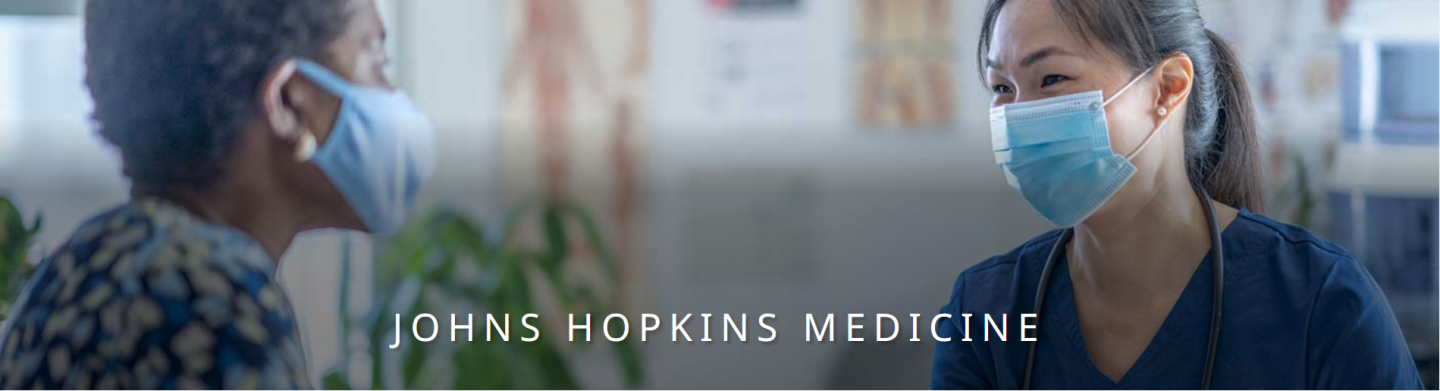
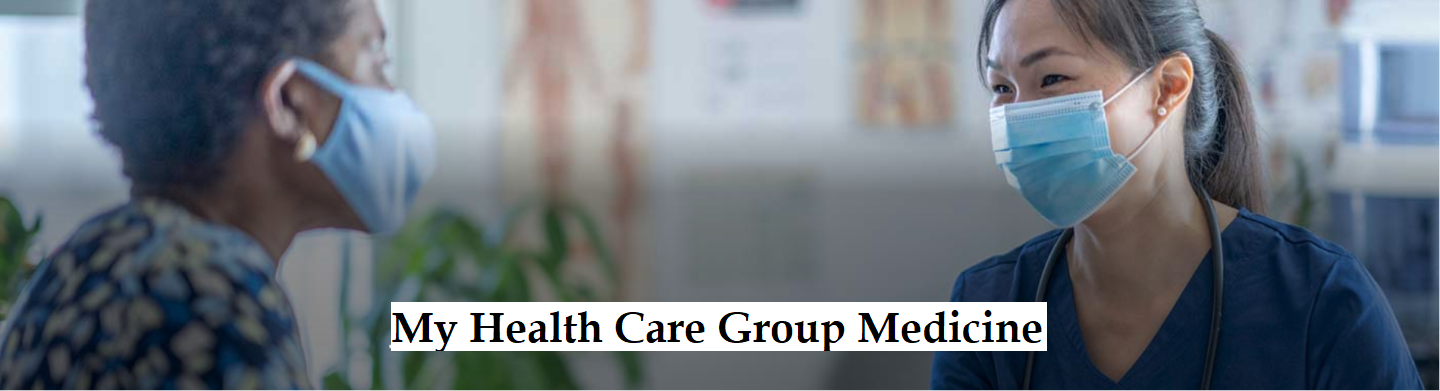
landing page name updated

Changed region(s): [[0.25, 0.7673, 0.75, 0.9207]]

diff --git a/src/components/Features.js b/src/components/Features.js
@@ -7,7 +7,7 @@ function Features() {
             <Grid container spacing={2}>
                 <Grid item xs={3}>
                     <CardActionArea>
-                        <Card sx={{height: 300, p: 2 , textAlign: 'center'}}>
+                        <Card sx={{height: 244, p: 2 , textAlign: 'center'}}>
                         <CardMedia
                             component='img'
                             image='https://www.hopkinsmedicine.org/_images/_svg/stethoscope-blue.svg'
@@ -23,7 +23,7 @@ function Features() {
 
                 <Grid item xs={3}>
                     <CardActionArea>
-                        <Card sx={{ height: 300, p: 2 }}>
+                        <Card sx={{ height: 244, p: 2 }}>
                         <CardMedia
                             component='img'
                             image='https://www.hopkinsmedicine.org/_images/_svg/location-blue.svg'
@@ -38,7 +38,7 @@ function Features() {
                 </Grid>
                 <Grid item xs={3}>
                     <CardActionArea>
-                        <Card sx={{ height: 300, p: 2 }}>
+                        <Card sx={{ height: 244, p: 2 }}>
                         <CardMedia
                             component='img'
                             image='https://www.hopkinsmedicine.org/_images/_svg/appointment-blue.svg'
@@ -53,7 +53,7 @@ function Features() {
                 </Grid>
                 <Grid item xs={3}   >
                     <CardActionArea>
-                        <Card sx={{ height: 300, p: 2 }}>
+                        <Card sx={{ height: 244, p: 2 }}>
                         <CardMedia
                             component='img'
                             image='https://www.hopkinsmedicine.org/_images/_svg/mychart-blue.svg'
